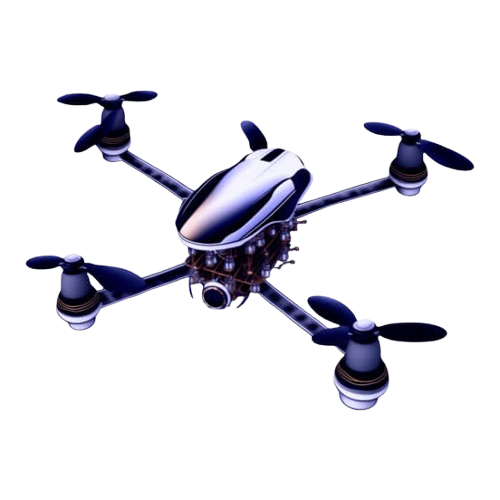
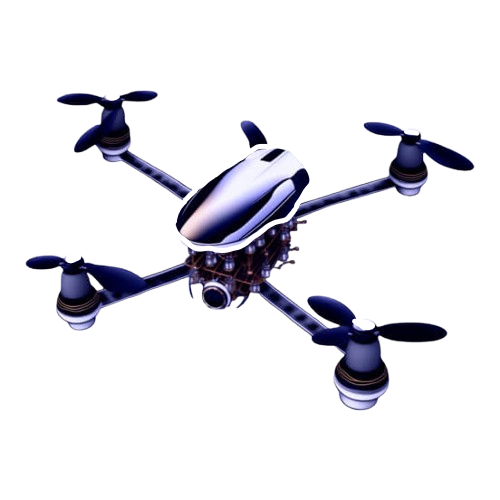
Commit drone2

diff --git a/Drone_GUI.py b/Drone_GUI.py
@@ -50,8 +50,11 @@ class FinestraSimulazione(ctk.CTkToplevel):
         self.canvas.pack()
 
         # Caricamento immagini
-        img_pil = Image.open("drone.png").resize((100, 100))
+        img_pil = Image.open("drone1.png").resize((100, 100))
         self.img_drone = ImageTk.PhotoImage(img_pil) 
+
+        img_pil = Image.open("drone2.png").resize((100, 100))
+        self.img_drone2 = ImageTk.PhotoImage(img_pil) 
 
         img_pil = Image.open("electric-station.png").resize((100, 100))
         self.img_recharge = ImageTk.PhotoImage(img_pil)
@@ -117,7 +120,7 @@ class FinestraSimulazione(ctk.CTkToplevel):
 
         # Posizionamento del drone2(solo se serve) e dei suoi indicatori
         if self.drone2_attivo:
-            self.id_drone2 = self.canvas.create_image(80, 80, image=self.img_drone, tags="drone2")
+            self.id_drone2 = self.canvas.create_image(80, 80, image=self.img_drone2, tags="drone2")
             
             self.label_batteria_drone2 = ctk.CTkLabel(self.pannello_destro, text="Batteria Drone 2", font=("Segoe UI Variable", 16, "bold"))
             self.label_batteria_drone2.pack(anchor="w", padx=10, pady=(25, 5))